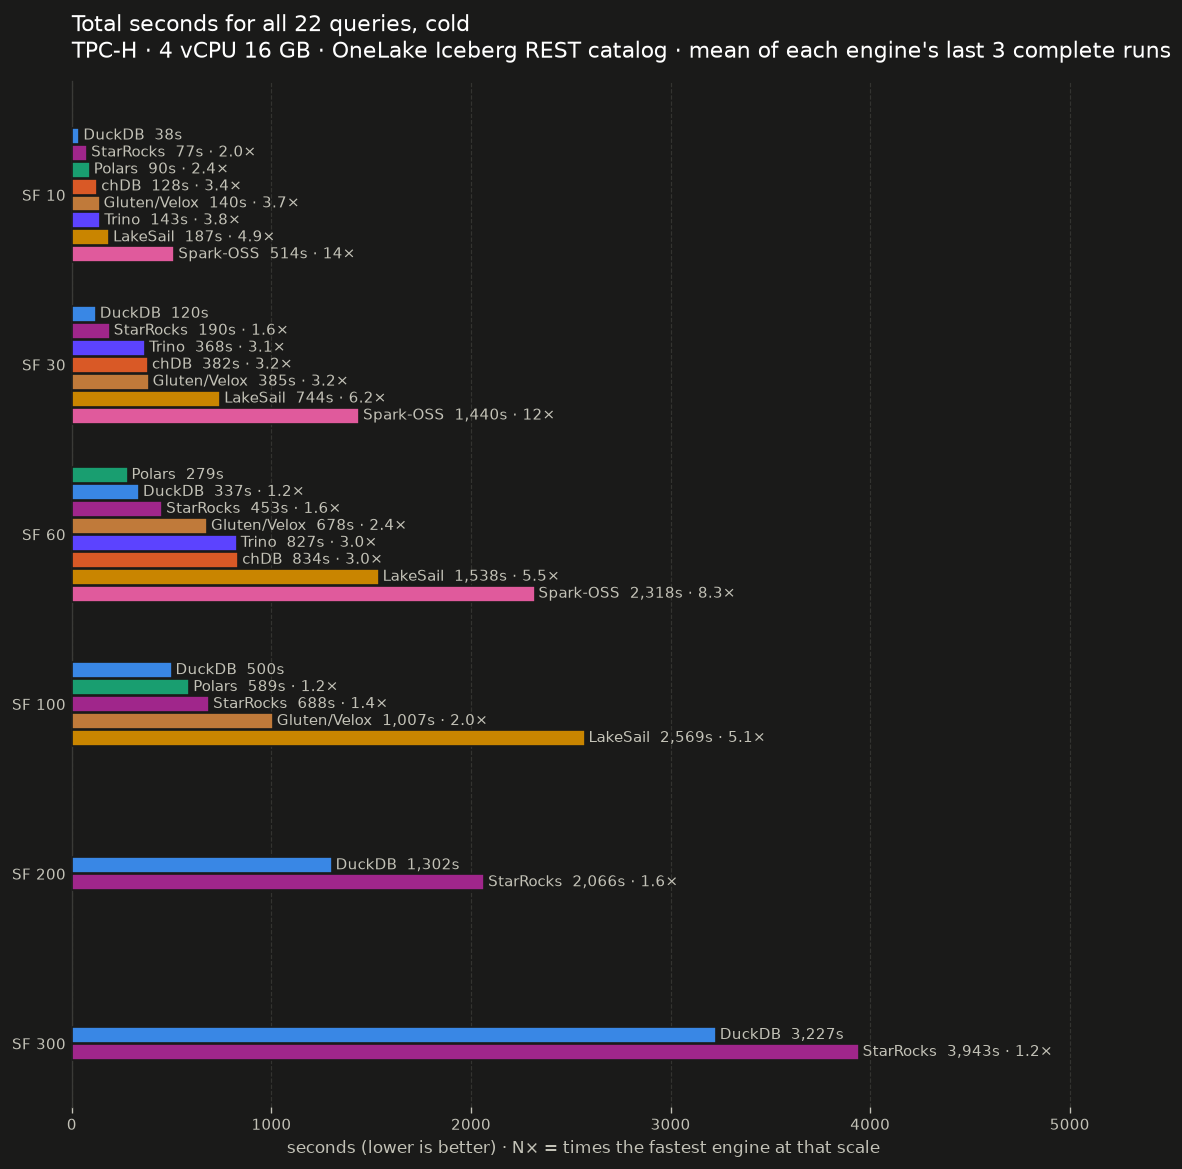
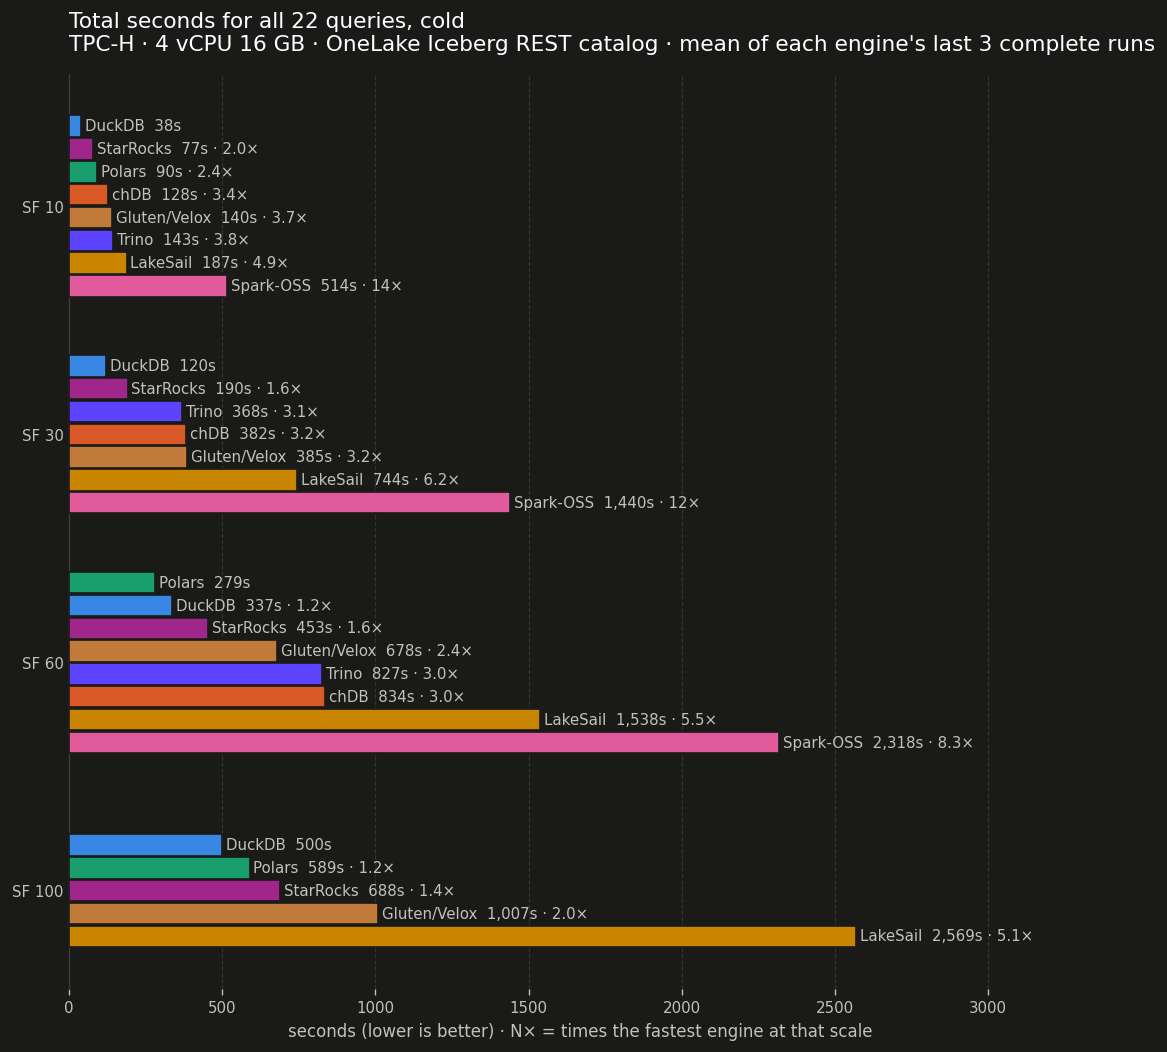
TPC-H totals chart and dispatch capped at SF=100; SF=200/300 results stay stored

diff --git a/bench/tpch/config.py b/bench/tpch/config.py
@@ -120,7 +120,7 @@ class TpchConfig(Config):
     # measures little but a second read of OneLake, while doubling a run that the one-hour token
     # already bounds. The totals chart compares every scale the suite runs at.
     PASSES = ("cold",)
-    TOTALS_SFS = (10, 30, 60, 100, 200, 300)
+    TOTALS_SFS = (10, 30, 60, 100)
     HEADLINE_SF = HEADLINE_SF
     ENGINES = ENGINES
     TABLES = TABLES
